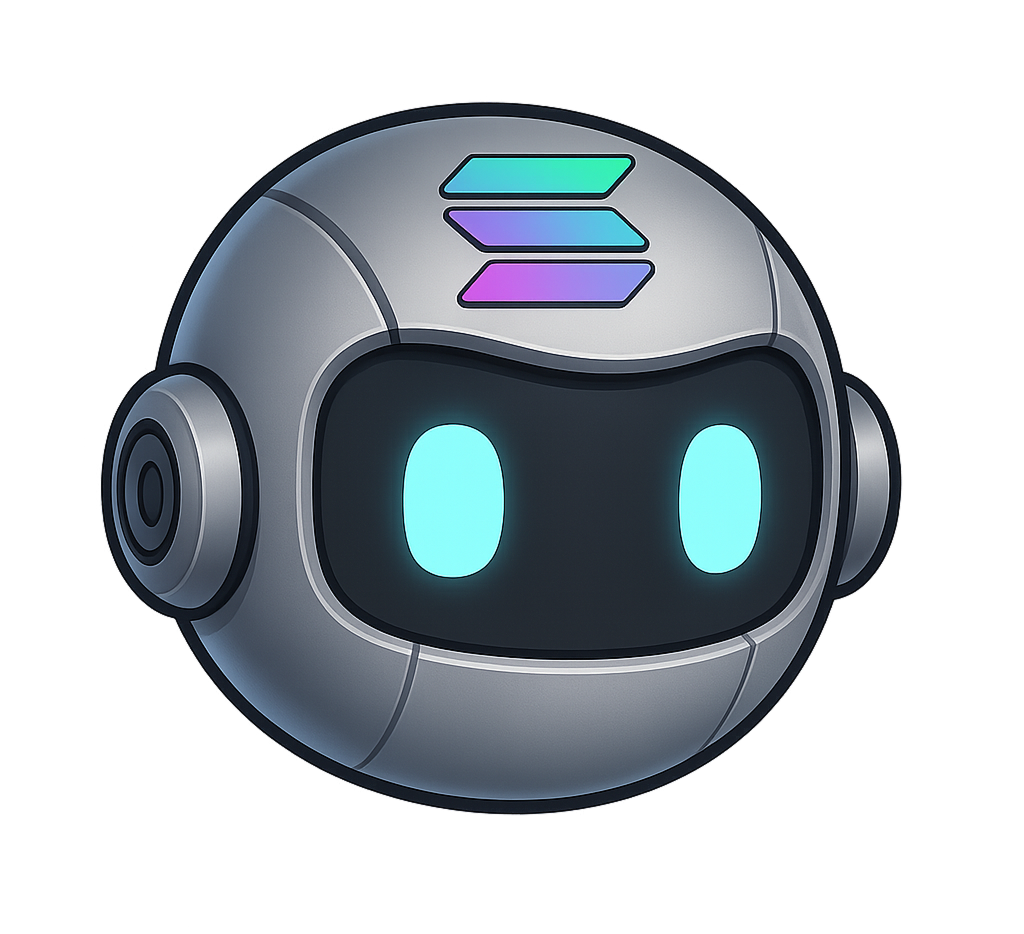
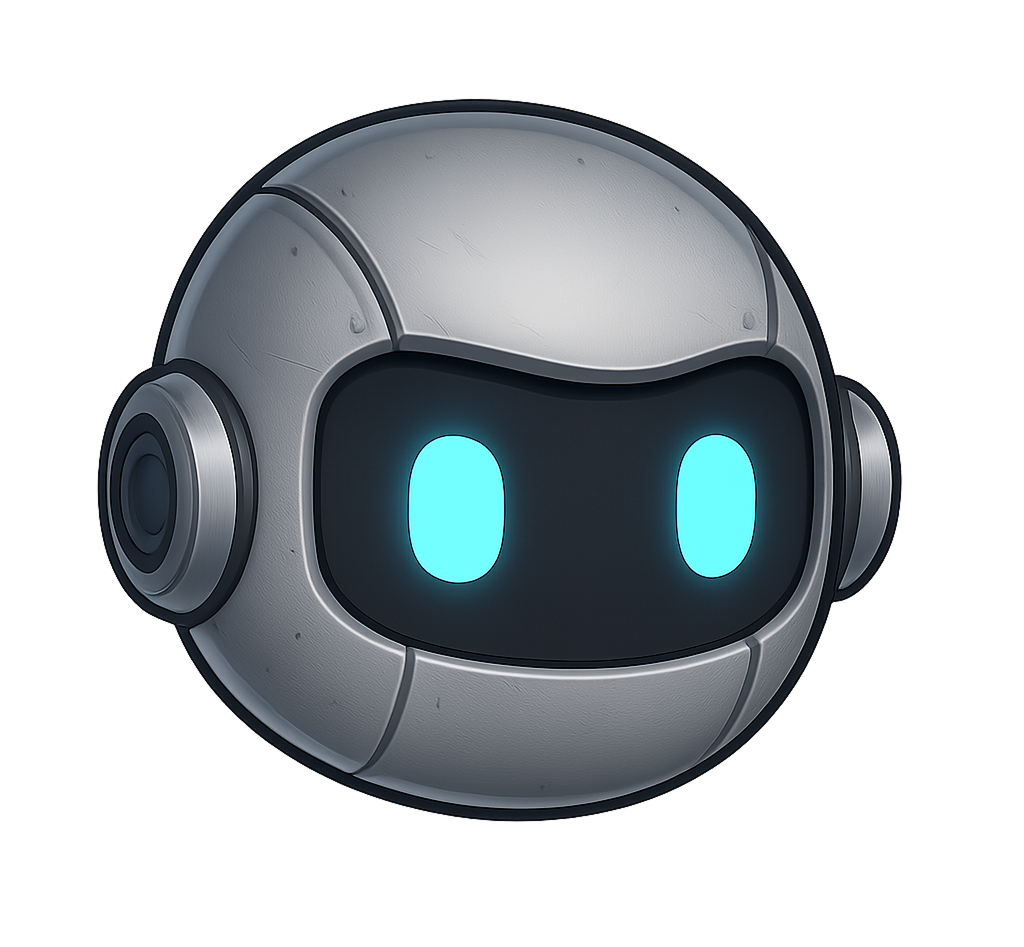
update ui

Changed region(s): [[0.0938, 0.0931, 0.875, 0.8694], [0.375, 0.4347, 0.5, 0.621], [0.6562, 0.4347, 0.75, 0.621]]

diff --git a/src/app/(routes)/agent/page.tsx b/src/app/(routes)/agent/page.tsx
@@ -1,26 +1,26 @@
 "use client";
 
-import { useEffect, useMemo, useState } from "react";
-import { useRouter } from "next/navigation";
-import { useWallet } from "@solana/wallet-adapter-react";
-import { WalletMultiButton } from "@solana/wallet-adapter-react-ui";
-import { Tabs, TabsList, TabsTrigger } from "@/components/ui/tabs";
+import useChatStore from "@/app/hooks/useChatStore";
 import AgentProfile from "@/components/agent/agent-profile";
 import AgentTools from "@/components/agent/agent-tools";
+import { Tabs, TabsList, TabsTrigger } from "@/components/ui/tabs";
 import { generateUUID } from "@/lib/utils";
-import useChatStore from "@/app/hooks/useChatStore";
+import { useWallet } from "@solana/wallet-adapter-react";
+import { WalletMultiButton } from "@solana/wallet-adapter-react-ui";
 import { MessageSquare, Sparkles } from "lucide-react";
+import { useRouter } from "next/navigation";
+import { useEffect, useMemo, useState } from "react";
 
 export default function AgentPage() {
   const [activeTab, setActiveTab] = useState("tools");
   const { publicKey } = useWallet();
   const router = useRouter();
-  
+
   // Récupérer les fonctions et les données du store
   const chats = useChatStore((state) => state.chats);
   const saveMessages = useChatStore((state) => state.saveMessages);
   const setCurrentChatId = useChatStore((state) => state.setCurrentChatId);
-  
+
   // Générer un ID stable pour une nouvelle conversation si nécessaire
   const newChatId = useMemo(() => generateUUID(), []);
 
@@ -29,16 +29,16 @@ export default function AgentPage() {
     if (activeTab === "chat" && publicKey) {
       // Vérifier s'il y a des conversations existantes
       const chatEntries = Object.entries(chats);
-      
+
       if (chatEntries.length > 0) {
         // Trier les conversations par date (la plus récente en premier)
-        const sortedChats = chatEntries.sort(([, a], [, b]) => 
+        const sortedChats = chatEntries.sort(([, a], [, b]) =>
           new Date(b.createdAt).getTime() - new Date(a.createdAt).getTime()
         );
-        
+
         // Récupérer l'ID de la conversation la plus récente
         const [mostRecentChatId] = sortedChats[0];
-        
+
         // Définir comme conversation active et rediriger
         setCurrentChatId(mostRecentChatId);
         router.push(`/agent/c/${mostRecentChatId}`);
@@ -75,10 +75,10 @@ export default function AgentPage() {
           defaultValue="tools"
           value={activeTab}
           onValueChange={setActiveTab}
-          className="w-full max-w-md"
+          className="w-full max-w-md h-full "
         >
-          <TabsList className="grid grid-cols-2 w-72">
-            <TabsTrigger value="tools" className="flex items-center gap-2">
+          <TabsList className="h-full grid  grid-cols-2 w-72">
+            <TabsTrigger value="tools" className="h-full flex items-center gap-2">
               <Sparkles className="h-4 w-4" />
               Agent
             </TabsTrigger>

diff --git a/src/app/(routes)/agent/c/[id]/page.tsx b/src/app/(routes)/agent/c/[id]/page.tsx
@@ -41,7 +41,7 @@ export default function ConversationPage({ params }: { params: { id: string } })
             Please connect your wallet to chat with the agent.
           </p>
           <div className="mt-6">
-            <WalletMultiButton />
+            <WalletMultiButton  />
           </div>
         </div>
       </div>
@@ -52,15 +52,15 @@ export default function ConversationPage({ params }: { params: { id: string } })
     <div className="w-full h-full flex flex-col">
       {/* Header with tabs and wallet */}
       <div className="w-full border-b flex justify-between items-center px-4 py-2 sticky top-0 z-10 bg-background">
-        <Tabs defaultValue="chat" className="w-full max-w-md">
-          <TabsList className="grid grid-cols-2 w-72">
-            <TabsTrigger value="tools" className="flex items-center gap-2" asChild>
+        <Tabs defaultValue="chat" className="w-full  h-full max-w-md">
+          <TabsList className="grid grid-cols-2 w-72  h-full">
+            <TabsTrigger value="tools" className="flex  h-full items-center gap-2" asChild>
               <Link href="/agent">
                 <Sparkles className="h-4 w-4" />
                 Agent
               </Link>
             </TabsTrigger>
-            <TabsTrigger value="chat" className="flex items-center gap-2">
+            <TabsTrigger value="chat" className="flex  h-full items-center gap-2">
               <MessageSquare className="h-4 w-4" />
               Chat
             </TabsTrigger>

diff --git a/src/components/sidebar/app-sidebar.tsx b/src/components/sidebar/app-sidebar.tsx
@@ -101,11 +101,11 @@ export function AppSidebar() {
       {/* Mobile sidebar toggle button - Only visible on mobile */}
       {isMobile && (
         <button
-          className="fixed z-50 bottom-4 right-4 p-3 bg-primary text-primary-foreground shadow-lg md:hidden"
+          className="fixed z-50 bottom-4 rounded-lg right-6 p-3 bg-primary text-primary-foreground shadow-lg md:hidden"
           onClick={toggleSidebar}
           aria-label="Toggle sidebar"
         >
-          <Menu className="h-6 w-6" />
+          <MessageSquare className="h-5 w-5" />
         </button>
       )}
 

diff --git a/src/components/agent/agent-profile.tsx b/src/components/agent/agent-profile.tsx
@@ -63,7 +63,7 @@ export default function AgentProfile({ walletAddress }: { walletAddress: string 
 
           <div className="flex flex-col text-center md:text-left">
             <h1 className="text-2xl font-bold">
-              {loading ? <Skeleton className="h-8 w-48" /> : "Agent"}
+              {loading ? <Skeleton className="h-8 w-48" /> : "Synto"}
             </h1>
 
             <div className="text-muted-foreground mt-2 max-w-md">
